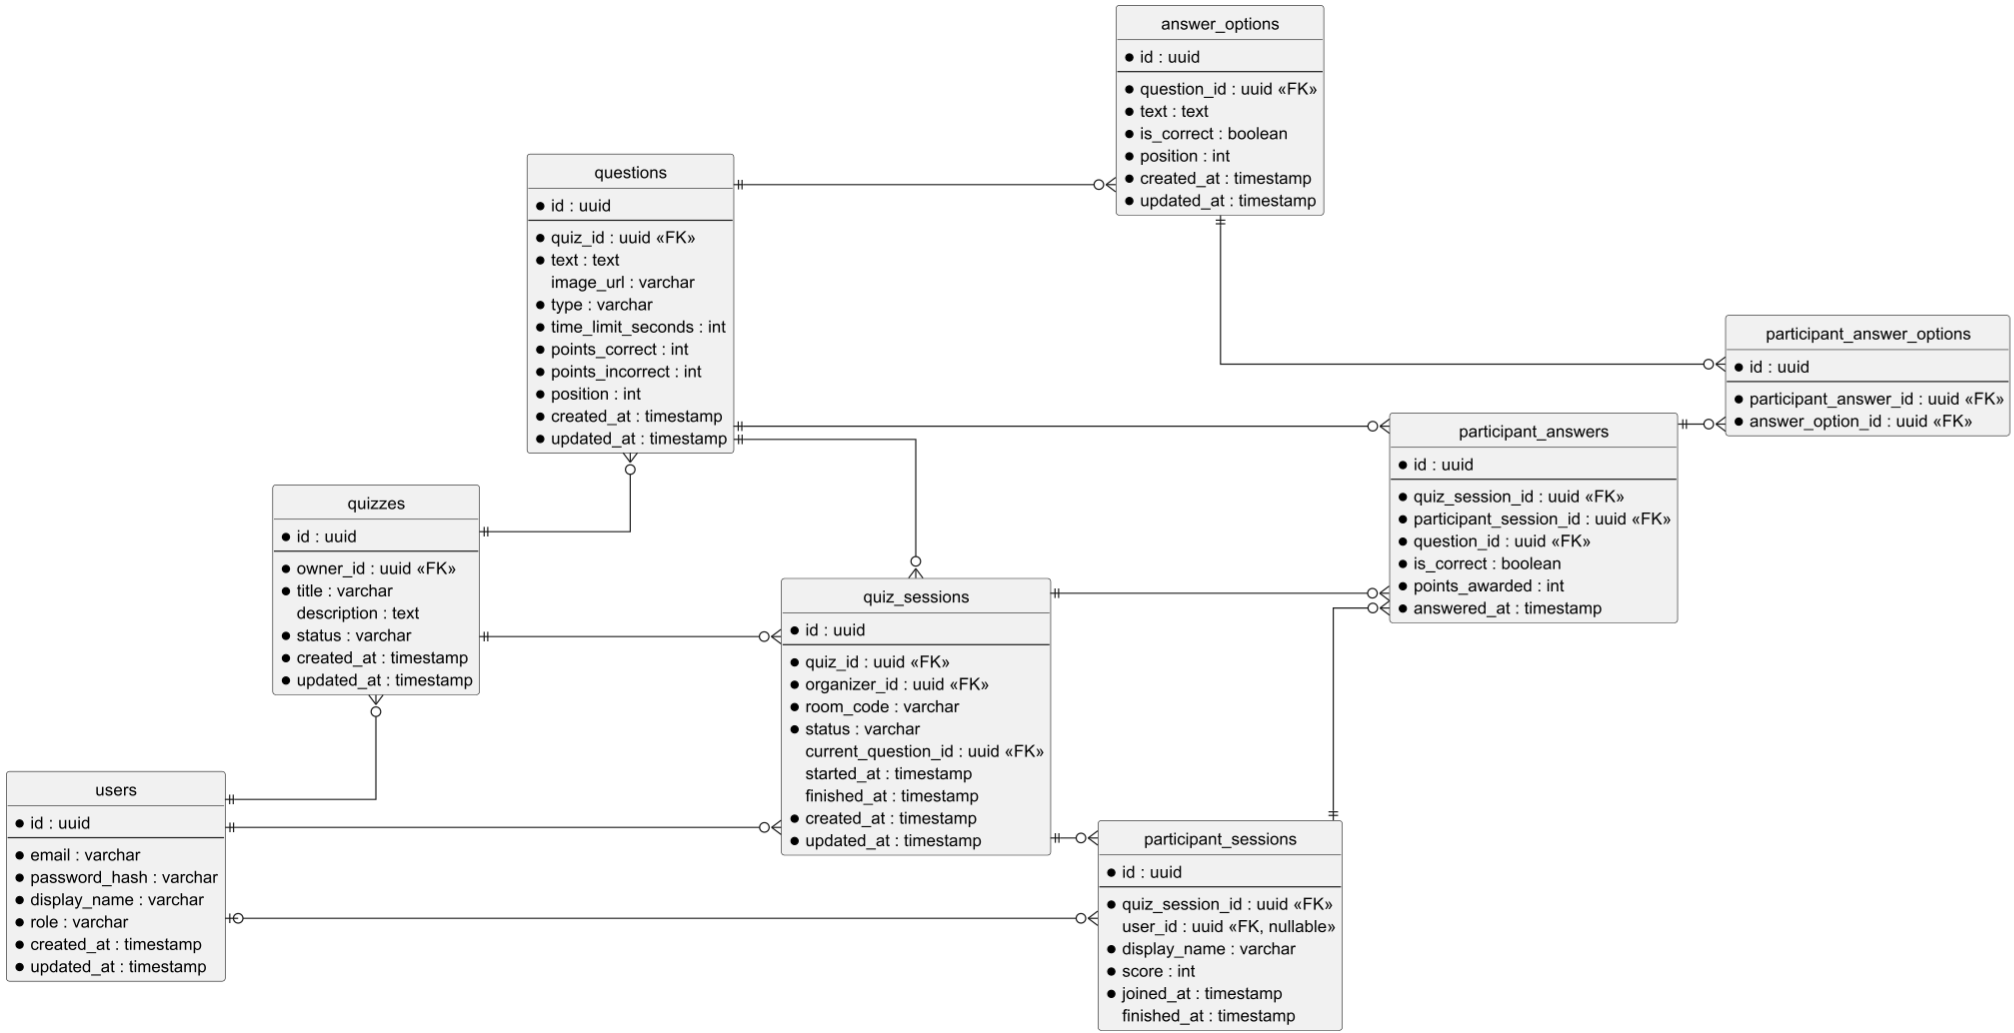
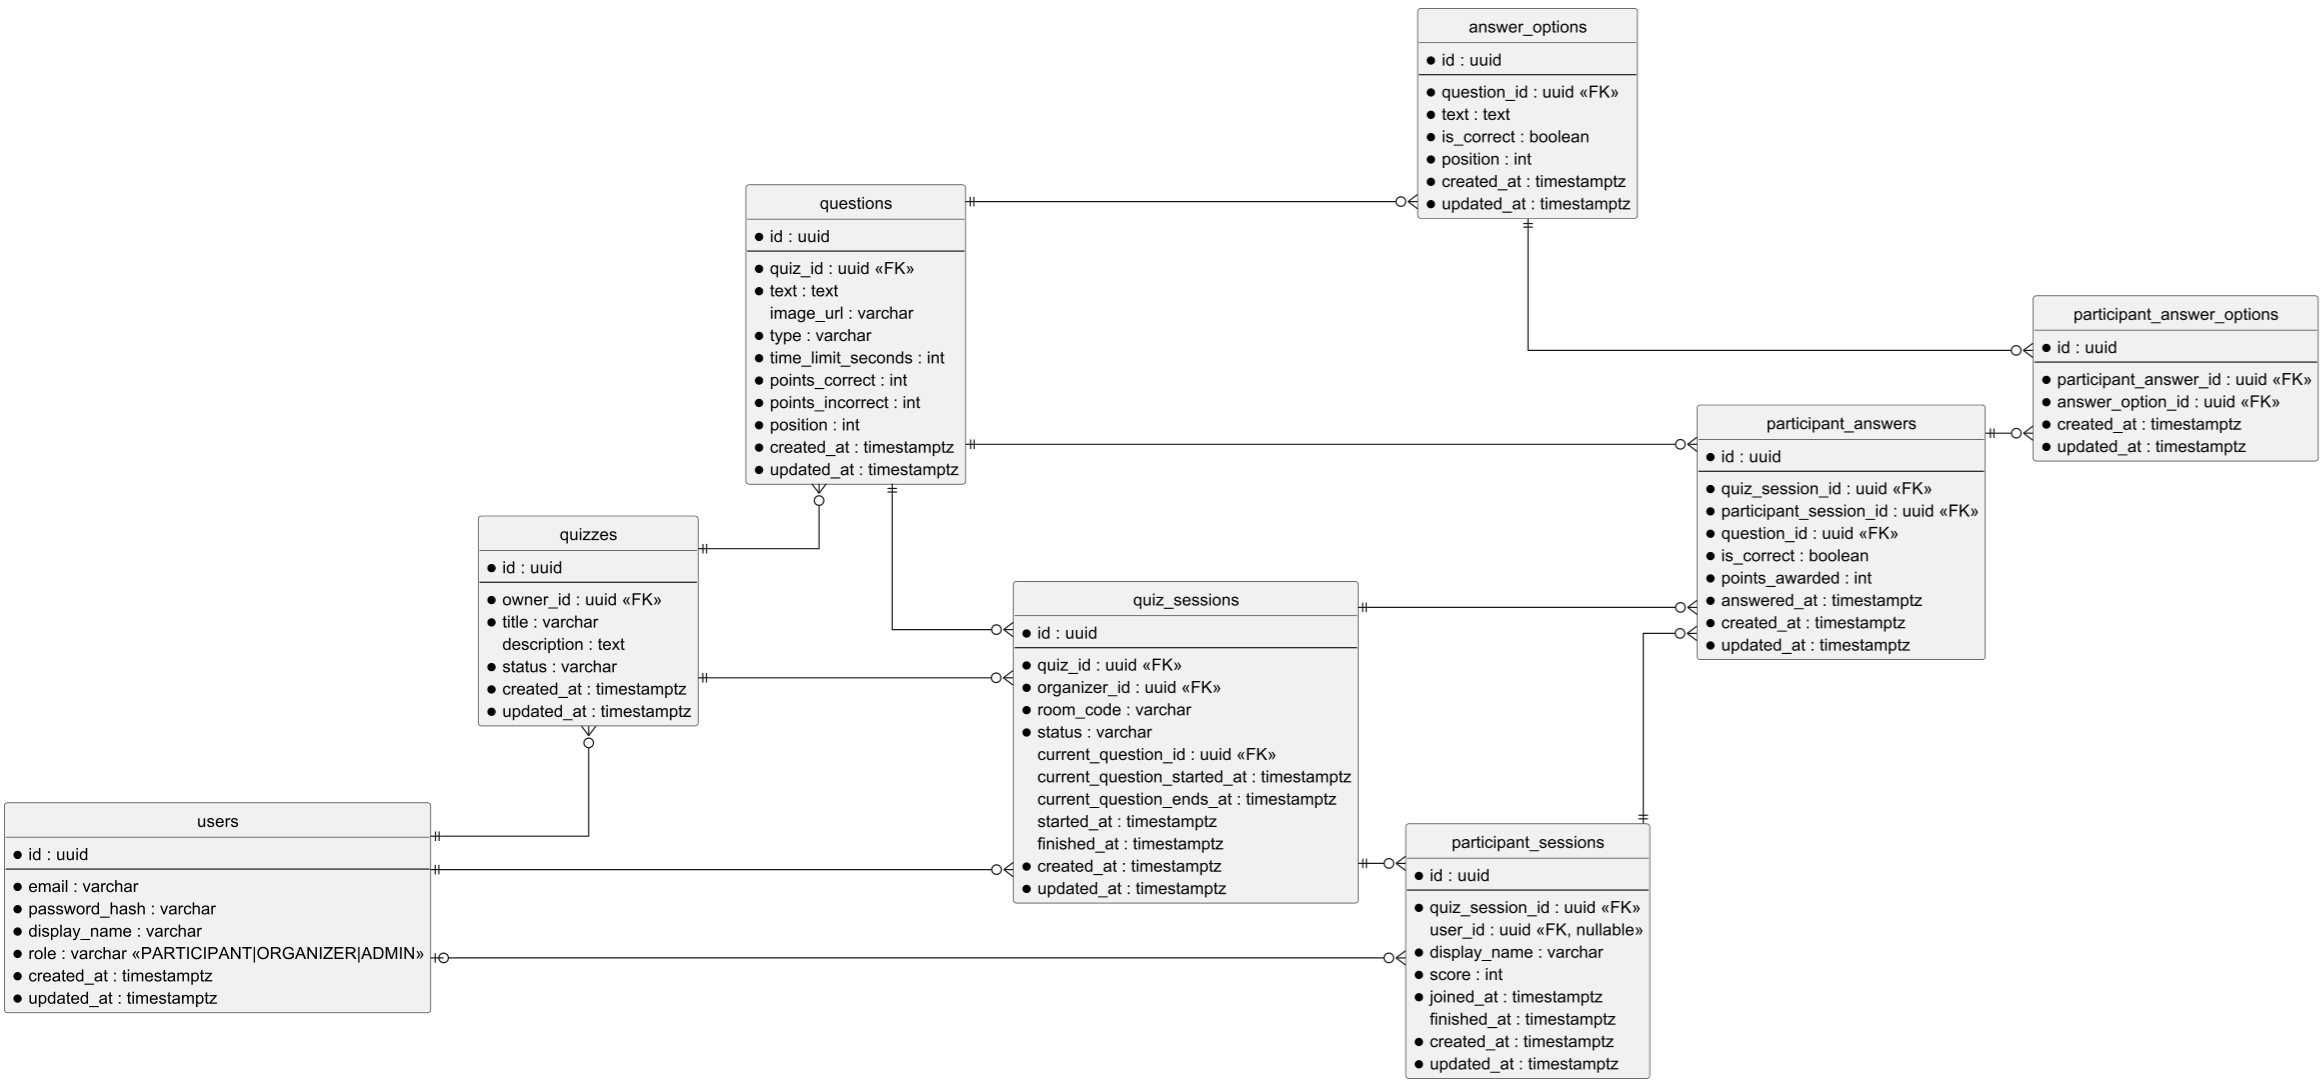
update schema

Changed region(s): [[0.0, 0.0, 1.0, 1.0], [0.1231, 0.4647, 0.3386, 0.6815]]

diff --git a/docs/erd.md b/docs/erd.md
@@ -19,8 +19,17 @@
 - `ParticipantSession` хранит участие конкретного игрока в конкретной quiz-сессии.
 - `ParticipantAnswer` и `ParticipantAnswerOption` хранят ответы участника.
 - Баллы за правильный и неправильный ответ задаются на уровне `Question`.
-- Фактически начисленные или снятые баллы сохраняются в `ParticipantAnswer.points_awarded`.
-- Итоговый счёт участника хранится в `ParticipantSession.score`.
+- Фактически начисленные баллы сохраняются в `ParticipantAnswer.points_awarded`.
+- Итоговый счёт участника хранится в `ParticipantSession.score` и не может быть отрицательным.
+- Временные поля в модели представлены как `Instant`, а в PostgreSQL — как `TIMESTAMP WITH TIME ZONE`.
+
+## Роли пользователей
+
+Пользователь может иметь одну из трёх ролей:
+
+- `PARTICIPANT` — участник, который проходит квизы.
+- `ORGANIZER` — организатор, который создаёт и запускает квизы.
+- `ADMIN` — администратор системы.
 
 ## Подключение участников
 
@@ -38,6 +47,7 @@
 
 - Участник подключается к quiz-сессии по `room_code`.
 - Ответы принимаются только во время активного вопроса.
+- Активное окно ответа задаётся полями `QuizSession.currentQuestionStartedAt` и `QuizSession.currentQuestionEndsAt`.
 - Backend сам проверяет корректность ответа.
 - Backend сам рассчитывает `points_awarded`.
 - Backend обновляет `ParticipantSession.score`.